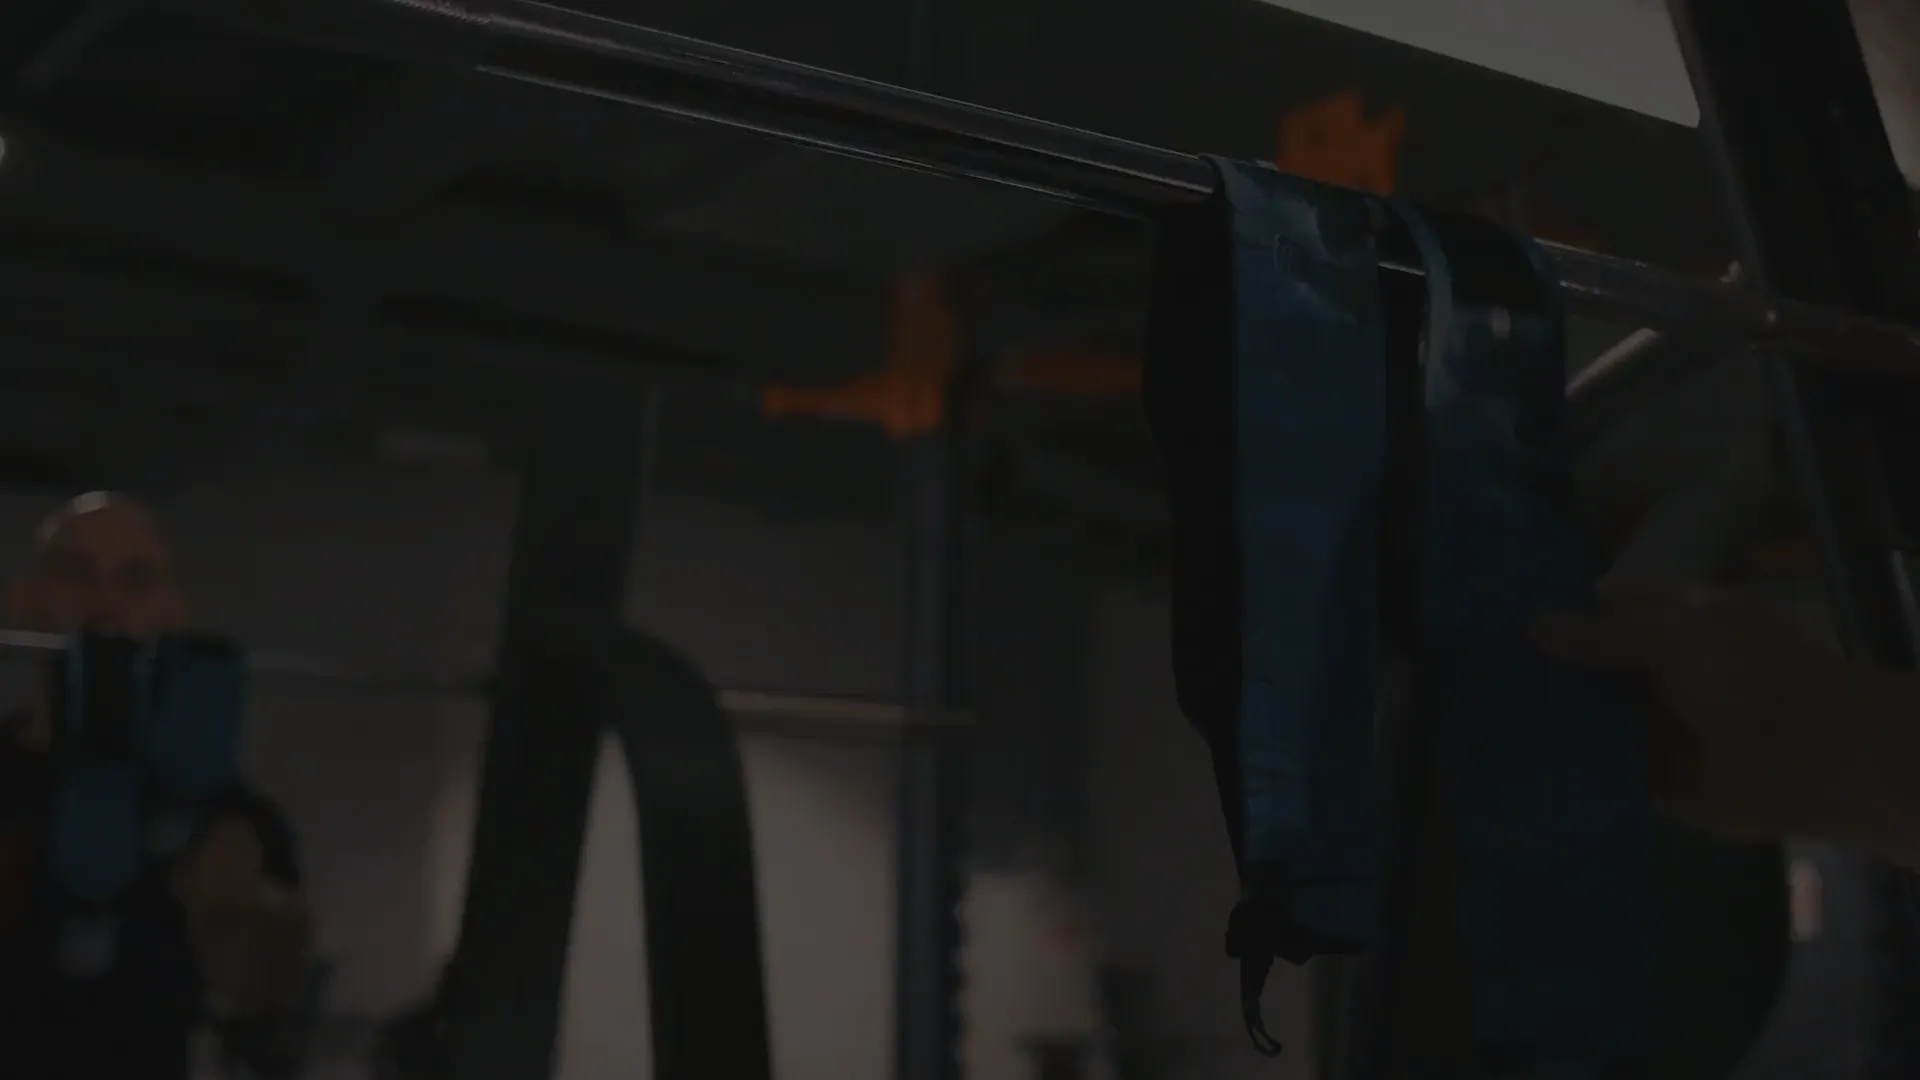
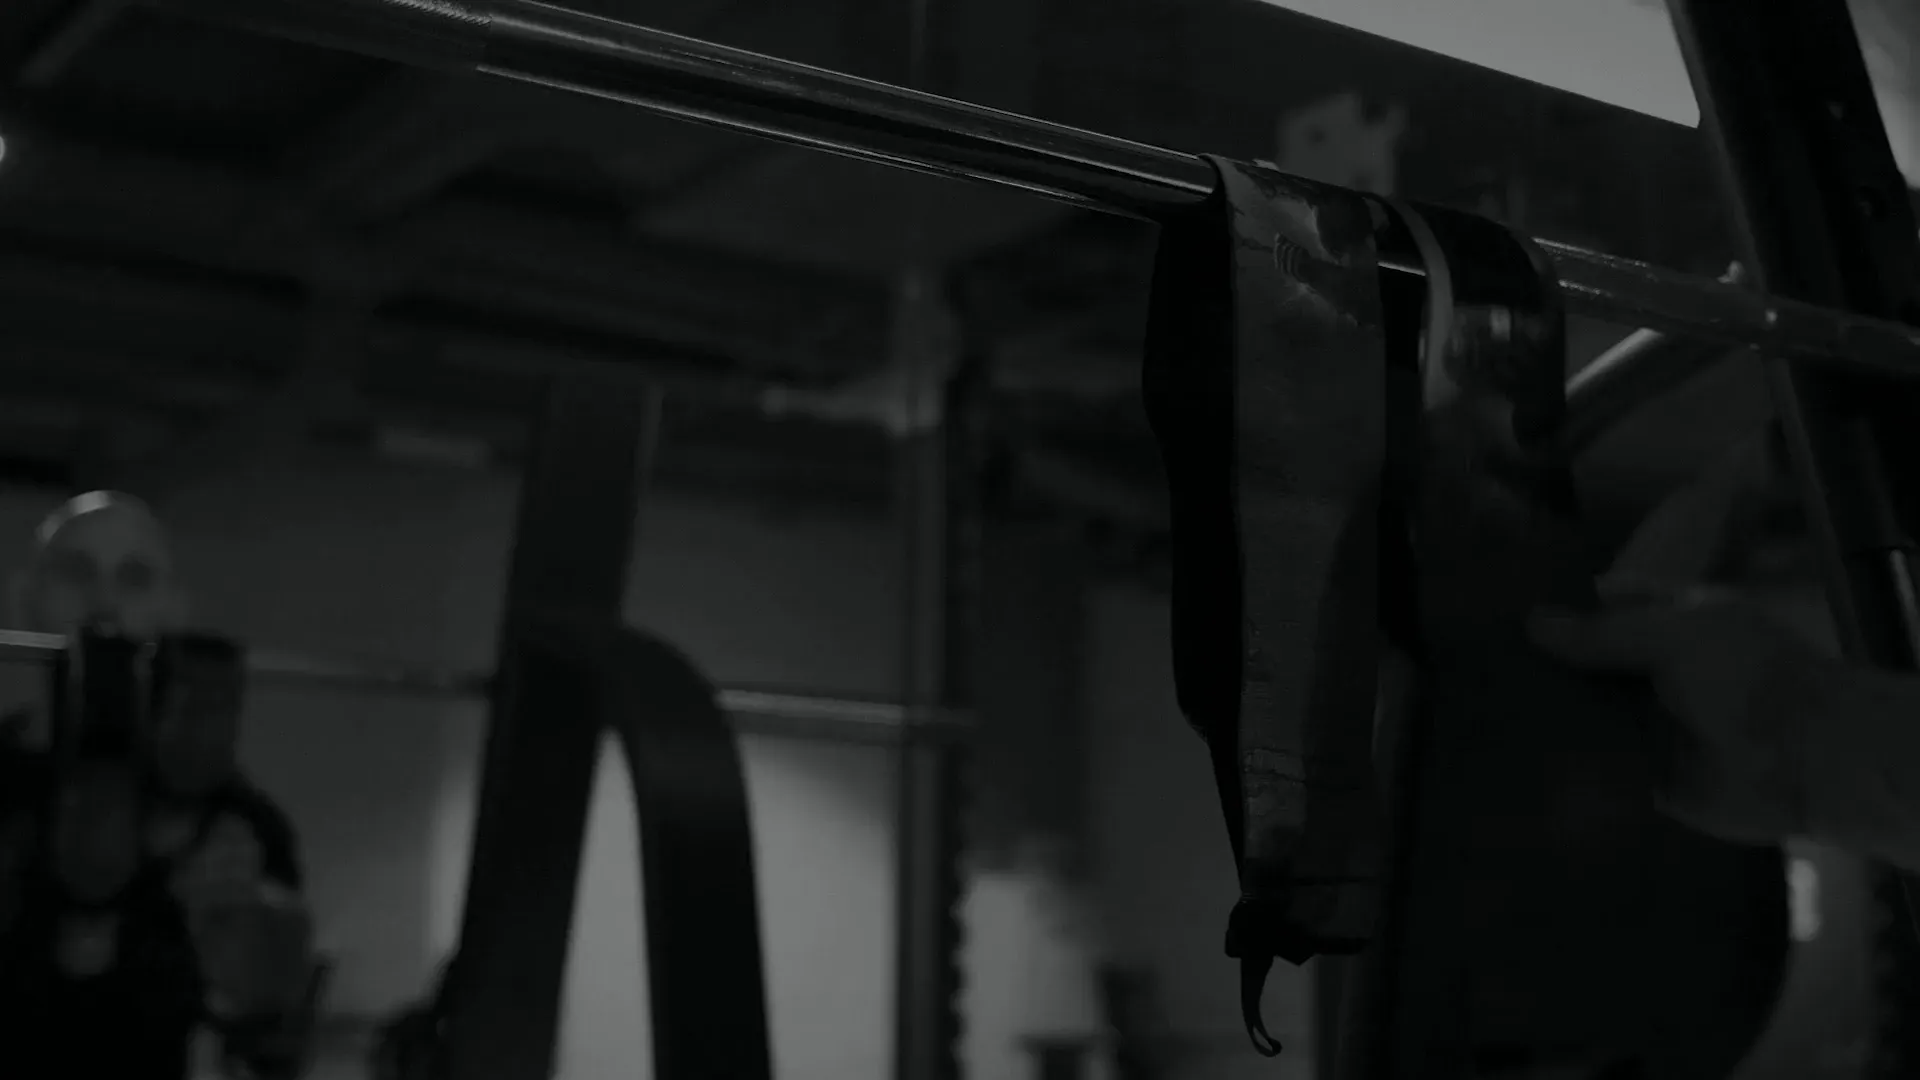
feat: hero video in greyscale at full strength, 4 MB
The team picked greyscale, 100% video, 20% overlay from the preview
switcher, so that is now baked in and the switcher is gone. At full
strength under a light overlay the encode's artefacts are on screen,
so the clip is re-encoded at CRF 23 (4 MB, chroma still zeroed) to
hero/hero-belt-bw.mp4, and the poster is its plain first frame.

With the video fully opaque there is nothing for the poster to ghost
through, so the #1a1a1a wrapper that existed for the 30% treatment is
dropped and the video fades in directly.

diff --git a/components/sections/hero-section.tsx b/components/sections/hero-section.tsx
@@ -6,27 +6,26 @@ import { CTAButton } from "@/components/ui/cta-button";
 import { blobUrl } from "@/lib/blob";
 import { readVideoConditions, shouldLoadDecorativeVideo } from "@/lib/video-conditions";
 import { useStableScreenHeight } from "@/hooks/use-stable-screen-height";
-import { HeroLookSwitcher, treatmentFilter, useHeroLook } from "./hero-look-switcher";
 
 // Re-encoded from the 70 MB camera original: 1920x1080 H.264, 60 -> 30 fps,
-// CRF 30, audio dropped, +faststart — 1.6 MB. Compression artefacts that would
-// be obvious in a clean video are invisible at 50% opacity under a 60% black
-// overlay, which is what makes the re-encode free. Hosted on Blob, see
+// CRF 23, chroma zeroed (it is shown greyscale, so colour would be pure cost),
+// audio dropped, +faststart — 4 MB. It is shown at full strength under only a
+// 20% overlay, so unlike the old 30%-under-60% treatment its artefacts are on
+// screen and the bitrate is spent accordingly. Hosted on Blob, see
 // lib/blob.ts; a recut gets a new path rather than overwriting the old one, so
 // a deployment still serving the old poster keeps the video that matches it.
-const HERO_VIDEO_URL = blobUrl("hero/hero-belt-color.mp4");
+const HERO_VIDEO_URL = blobUrl("hero/hero-belt-bw.mp4");
 
-// The video's first frame with the 50% opacity over #1a1a1a *baked in*, so
-// the still and the first frame are the same picture and the fade reads as the
-// page coming to life rather than as a swap. It stays in public/, served
-// same-origin: it is the LCP element, and a DNS lookup plus a TLS handshake on
-// that path would cost far more than the 20 KB it saves.
+// The video's first frame, so the still and the first frame are the same
+// picture and the fade reads as the page coming to life rather than as a
+// swap. It stays in public/, served same-origin: it is the LCP element, and a
+// DNS lookup plus a TLS handshake on that path would cost far more than the
+// 26 KB it saves.
 const HERO_POSTER_URL = "/assets/hero-poster.webp";
 
 export function HeroSection() {
   const [videoSrc, setVideoSrc] = useState<string | null>(null);
   const [videoReady, setVideoReady] = useState(false);
-  const [look, setLook] = useHeroLook();
   // `100svh` is already the stable unit in a browser that only hides its
   // chrome. It is not stable in an in-app browser, which resizes its web view
   // outright — and there the hero is the first of several viewport-sized boxes
@@ -66,8 +65,8 @@ export function HeroSection() {
       >
         {/* Background: the poster paints, the video fades in over it later */}
         <div className="absolute inset-0 z-0">
-          {/* eslint-disable-next-line @next/next/no-img-element -- the treatment
-              is already baked into a 20 KB file; the image optimiser would add
+          {/* eslint-disable-next-line @next/next/no-img-element -- the file is
+              already a 26 KB WebP; the image optimiser would add
               a round trip to the LCP path and save nothing. */}
           <img
             src={HERO_POSTER_URL}
@@ -80,32 +79,21 @@ export function HeroSection() {
             className="absolute inset-0 w-full h-full object-cover"
           />
           {videoSrc && (
-            // The video carries its treatment inside an opaque #1a1a1a layer
-            // and that whole layer is what fades in, so at rest the hero is
-            // 50% video over #1a1a1a and nothing else. Fading the bare video
-            // over the poster instead would leave the poster showing through
-            // its other 50% — a permanent still of frame one ghosted under the
-            // motion, and a background brighter than the design.
-            <div
-              className={`absolute inset-0 bg-[#1a1a1a] transition-opacity duration-1000 ${
+            <video
+              src={videoSrc}
+              autoPlay
+              loop
+              muted
+              playsInline
+              aria-hidden="true"
+              onCanPlay={() => setVideoReady(true)}
+              className={`absolute inset-0 w-full h-full object-cover transition-opacity duration-1000 ${
                 videoReady ? "opacity-100" : "opacity-0"
               }`}
-            >
-              <video
-                src={videoSrc}
-                autoPlay
-                loop
-                muted
-                playsInline
-                aria-hidden="true"
-                onCanPlay={() => setVideoReady(true)}
-                style={{ filter: treatmentFilter(look.treatment), opacity: look.opacity }}
-                className="absolute inset-0 w-full h-full object-cover"
-              />
-            </div>
+            />
           )}
           {/* Dark overlay */}
-          <div className="absolute inset-0 bg-[#1a1a1a]" style={{ opacity: look.overlay }} />
+          <div className="absolute inset-0 bg-[#1a1a1a]/20" />
         </div>
 
         {/* Content */}
@@ -137,7 +125,6 @@ export function HeroSection() {
           </div>
         </div>
       </section>
-      <HeroLookSwitcher look={look} onChange={setLook} />
     </div>
   );
 }

diff --git a/CLAUDE.md b/CLAUDE.md
@@ -99,7 +99,7 @@ Pexels api key - AQT9iudesPqlSQYM2L4gVI39ypXc07BTJUNOmNAEk5Nk73bLn5LyPiz6
 
 ### Performance budget
 - **A viewport unit is never multiplied.** The belt scrub's runway used to be `700vh`, and on mobile that was a bug rather than a style: the browser chrome collapses and expands as you scroll, so the viewport height moves, and seven times a ~100px toolbar is ~800px of height change in a section sitting above most of the page. WebKit has no scroll anchoring to absorb it — measured at 375x752 → 375x852, the content below jumped 800px while the finger was still moving, and in an in-app browser (which resizes its web view outright) it is worse. Both viewport-sized boxes on the homepage now take their height from `useStableScreenHeight` (`hooks/use-stable-screen-height.ts`): a pixel value re-measured **only when the viewport width changes**, since a height-only change is the toolbar and nothing else. Two details are load-bearing and tested in `lib/stable-viewport.ts`. The value is read from a throwaway element sized in **`svh`**, not from `window.innerHeight` — `svh` is what the server-rendered fallback already painted, so the hydration shift is zero by construction rather than merely small, which matters because the hero is the LCP element and the CLS gate is `0`. And `ScrollTrigger.config({ ignoreMobileResize: true })` stops GSAP recomputing every trigger mid-scroll, which is what made the cards look like they were re-snapping. The product page's `100svh` hero is deliberately left alone: it lives in a `hidden lg:block` desktop layout, where the chrome does not move.
-- **Videos live on Vercel Blob, posters live in the repo.** `lib/blob.ts` names the one Blob origin (the homepage `preconnect`s to it, so a second origin would need a second hint). The hero is the pattern: `public/assets/hero-poster.webp` is the LCP element, same-origin, 20 KB, with the 50% opacity over `#1a1a1a` **baked into the pixels** so it and the video's first frame are the same picture — the fade-in is invisible. The video itself is not requested until after the `load` event, and not at all when `shouldLoadDecorativeVideo` in `lib/video-conditions.ts` says no (`save-data`, a slow `effectiveType`, or `prefers-reduced-motion`). Re-encoding it hard was free because it renders at 50% under a 60% black overlay; regenerate the poster from the video's first frame whenever the clip is recut, or the two will drift apart. **The video fades in inside an opaque `#1a1a1a` wrapper, not as a bare 50% layer** — fading the bare video over the poster leaves the poster visible through its remaining 50%, which is a permanent still of frame one ghosted under the motion and a hero brighter than the design (measured: 16× the pixel deviation from poster-alone).
+- **Videos live on Vercel Blob, posters live in the repo.** `lib/blob.ts` names the one Blob origin (the homepage `preconnect`s to it, so a second origin would need a second hint). The hero is the pattern: `public/assets/hero-poster.webp` is the LCP element, same-origin, 26 KB, and is the video's first frame, so the fade-in is invisible. The video itself is not requested until after the `load` event, and not at all when `shouldLoadDecorativeVideo` in `lib/video-conditions.ts` says no (`save-data`, a slow `effectiveType`, or `prefers-reduced-motion`). It is greyscale at full strength under a 20% overlay — picked by the team from a side-by-side on a preview — so its chroma is zeroed in the encode and the rest of its 4 MB is spent on quality that is actually on screen; regenerate the poster from the video's first frame whenever the clip is recut, or the two will drift apart.
 - **Every video below the fold goes through one primitive, and that is the point.** `<LazyVideo>` (`components/ui/lazy-video.tsx`) over `useVideoGate` (`hooks/use-video-gate.ts`): the element renders from the first paint so the box never changes size, but the `src` is attached only once the section is within a viewport and a half, and playback pauses the moment it leaves the screen. The same three signals as the hero — `save-data`, a slow `effectiveType`, `prefers-reduced-motion` — are read from `lib/video-conditions.ts`, and when they say no the source is never attached at all; `onActiveChange` is how a section learns that, so it can drop controls that would otherwise sit over an empty box. The gate opens only after hydration **and after the `load` event**, which is what keeps the server from rendering a `src` and what stops a section close enough to the fold to sit inside its own load margin — the belt scrub is about two screens down — from being fetched during the page load this whole thing exists to protect. One escape hatch, `essential: true`: the scrub's 700vh of card animation is driven off the video's own duration, so skipping it leaves seven screens of a single card. Such a video is still deferred, only never skipped — `save-data` is an ask for less, not an ask for a broken section. It is not for keeping a decorative video alive. **Reach for `useVideoGate` directly only when a section needs the gate but not the playback** — a carousel choosing which of its videos plays, or a scrub whose `currentTime` comes from scroll. The three videos #34 found each downloading on page load were three separate mistakes made because this rule lived nowhere; adding a fourth video without it would be the fourth.
 - **3D models are compressed before they reach Strapi, and the weight is all textures.** Measured on the catalogue: **97% of a belt's bytes are PNG textures**, several of them 4096², against ~1 MB of geometry — so Draco and meshopt, the obvious first reach, are a rounding error until the textures are dealt with. The agreed recipe is **resize to 2048 → WebP quality 80 → meshopt**, in that order, which took the heaviest belt from 40.6 MB to 2.23 MB (18×) and its download from ~6.5 s to 1.5 s. Quality was checked at the scale the texture is actually sampled at on screen, not at 1:1 on the source: PSNR 38.6 dB on base colour and 38.7 dB on the normal map (>40 dB is the usual "indistinguishable" line, and the normal map is the slot that fails first). Neither half needs anything added to the app — three reads `EXT_texture_webp` natively, and the meshopt decoder is already attached in `components/models/dynamic-model.tsx`. **KTX2/Basis was rejected**, not overlooked: it would need `setKTX2Loader` wiring plus a `toktx` binary in the pipeline, and its real advantage is GPU memory rather than transfer — WebP decompresses fully into VRAM, which only starts to matter if a page ever shows several models at once.
 - **three.js reaches the browser through exactly one `import()`, in `components/models/model-viewer.tsx`.** Imported statically it lands in the product route's *entry* chunk, and since Next prefetches that route the moment a product card scrolls into view, the homepage downloaded 283 KB (≈1 MB unpacked) to render no 3D at all. Behind the dynamic import it is a chunk of its own. **Do not import `model-loader` directly** — a static import anywhere in a routed component graph silently undoes this, and nothing fails to build when it happens. Deferring alone would only trade a slow homepage for a slow product transition, so the chunk is *warmed*: `warmModelViewer()` on pointer-enter / touch-start of a `ProductCard`, and `useWarmModelViewerWhenIdle()` once per product-listing page as the fallback for visitors who never hover. That fallback is the delicate part, and it is why `lib/idle-after-load.ts` exists as a separate tested module: scheduled before the `load` event it pulls the chunk straight back into the measurement window and cancels its own benefit while looking correct in review. Under `save-data` the idle warm is skipped entirely and only intent warms — deferring is not refusing. Route prefetching stays on; it was never the problem, it was simply fetching the wrong thing.
